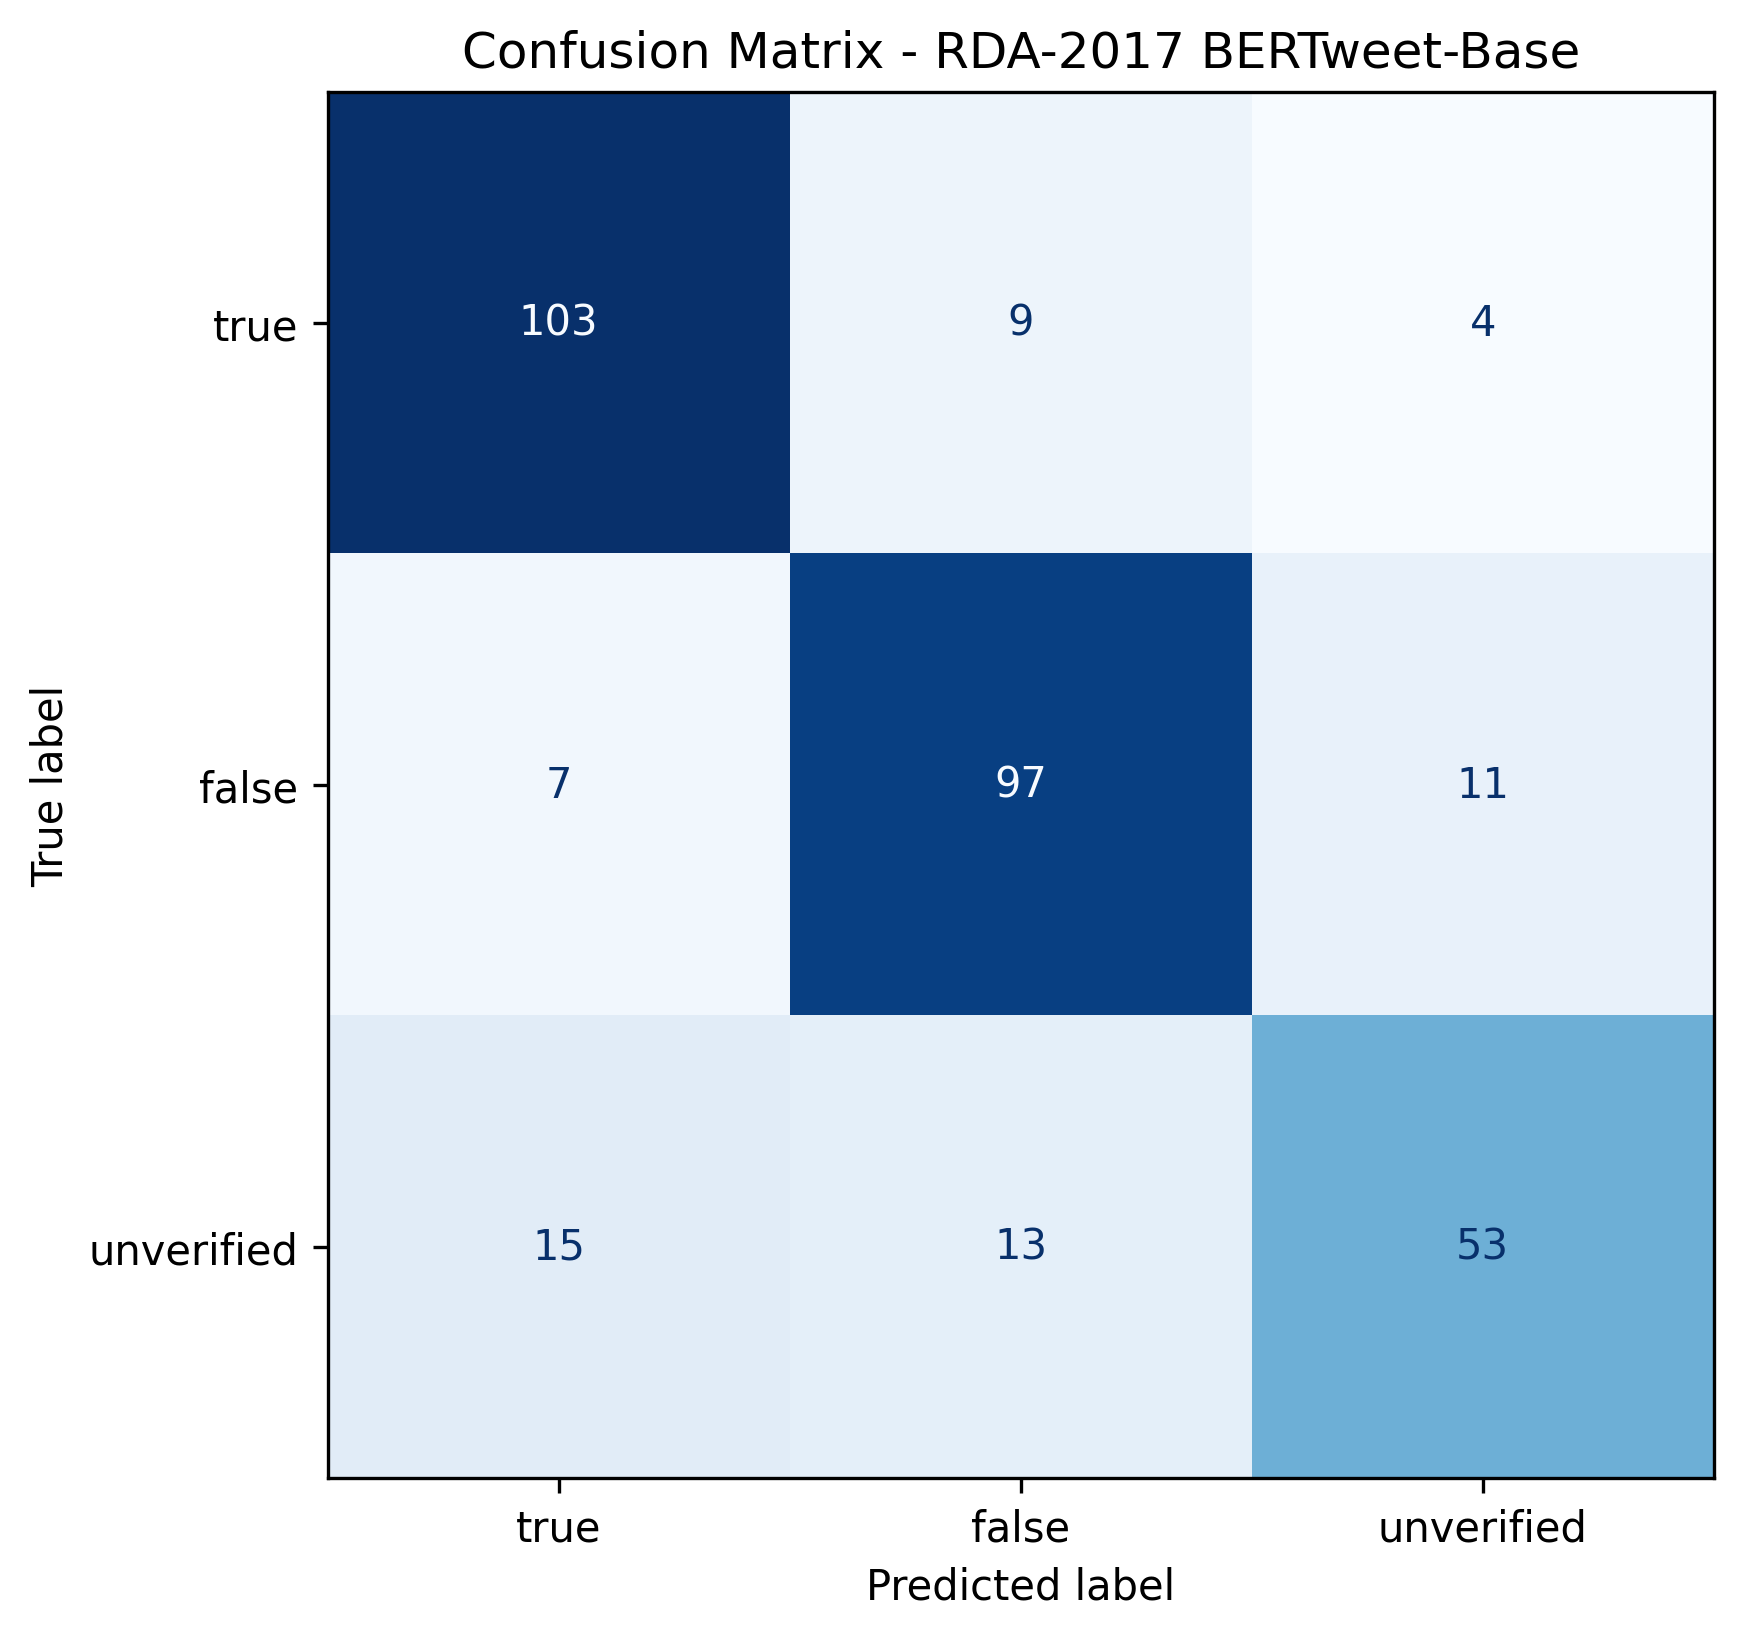
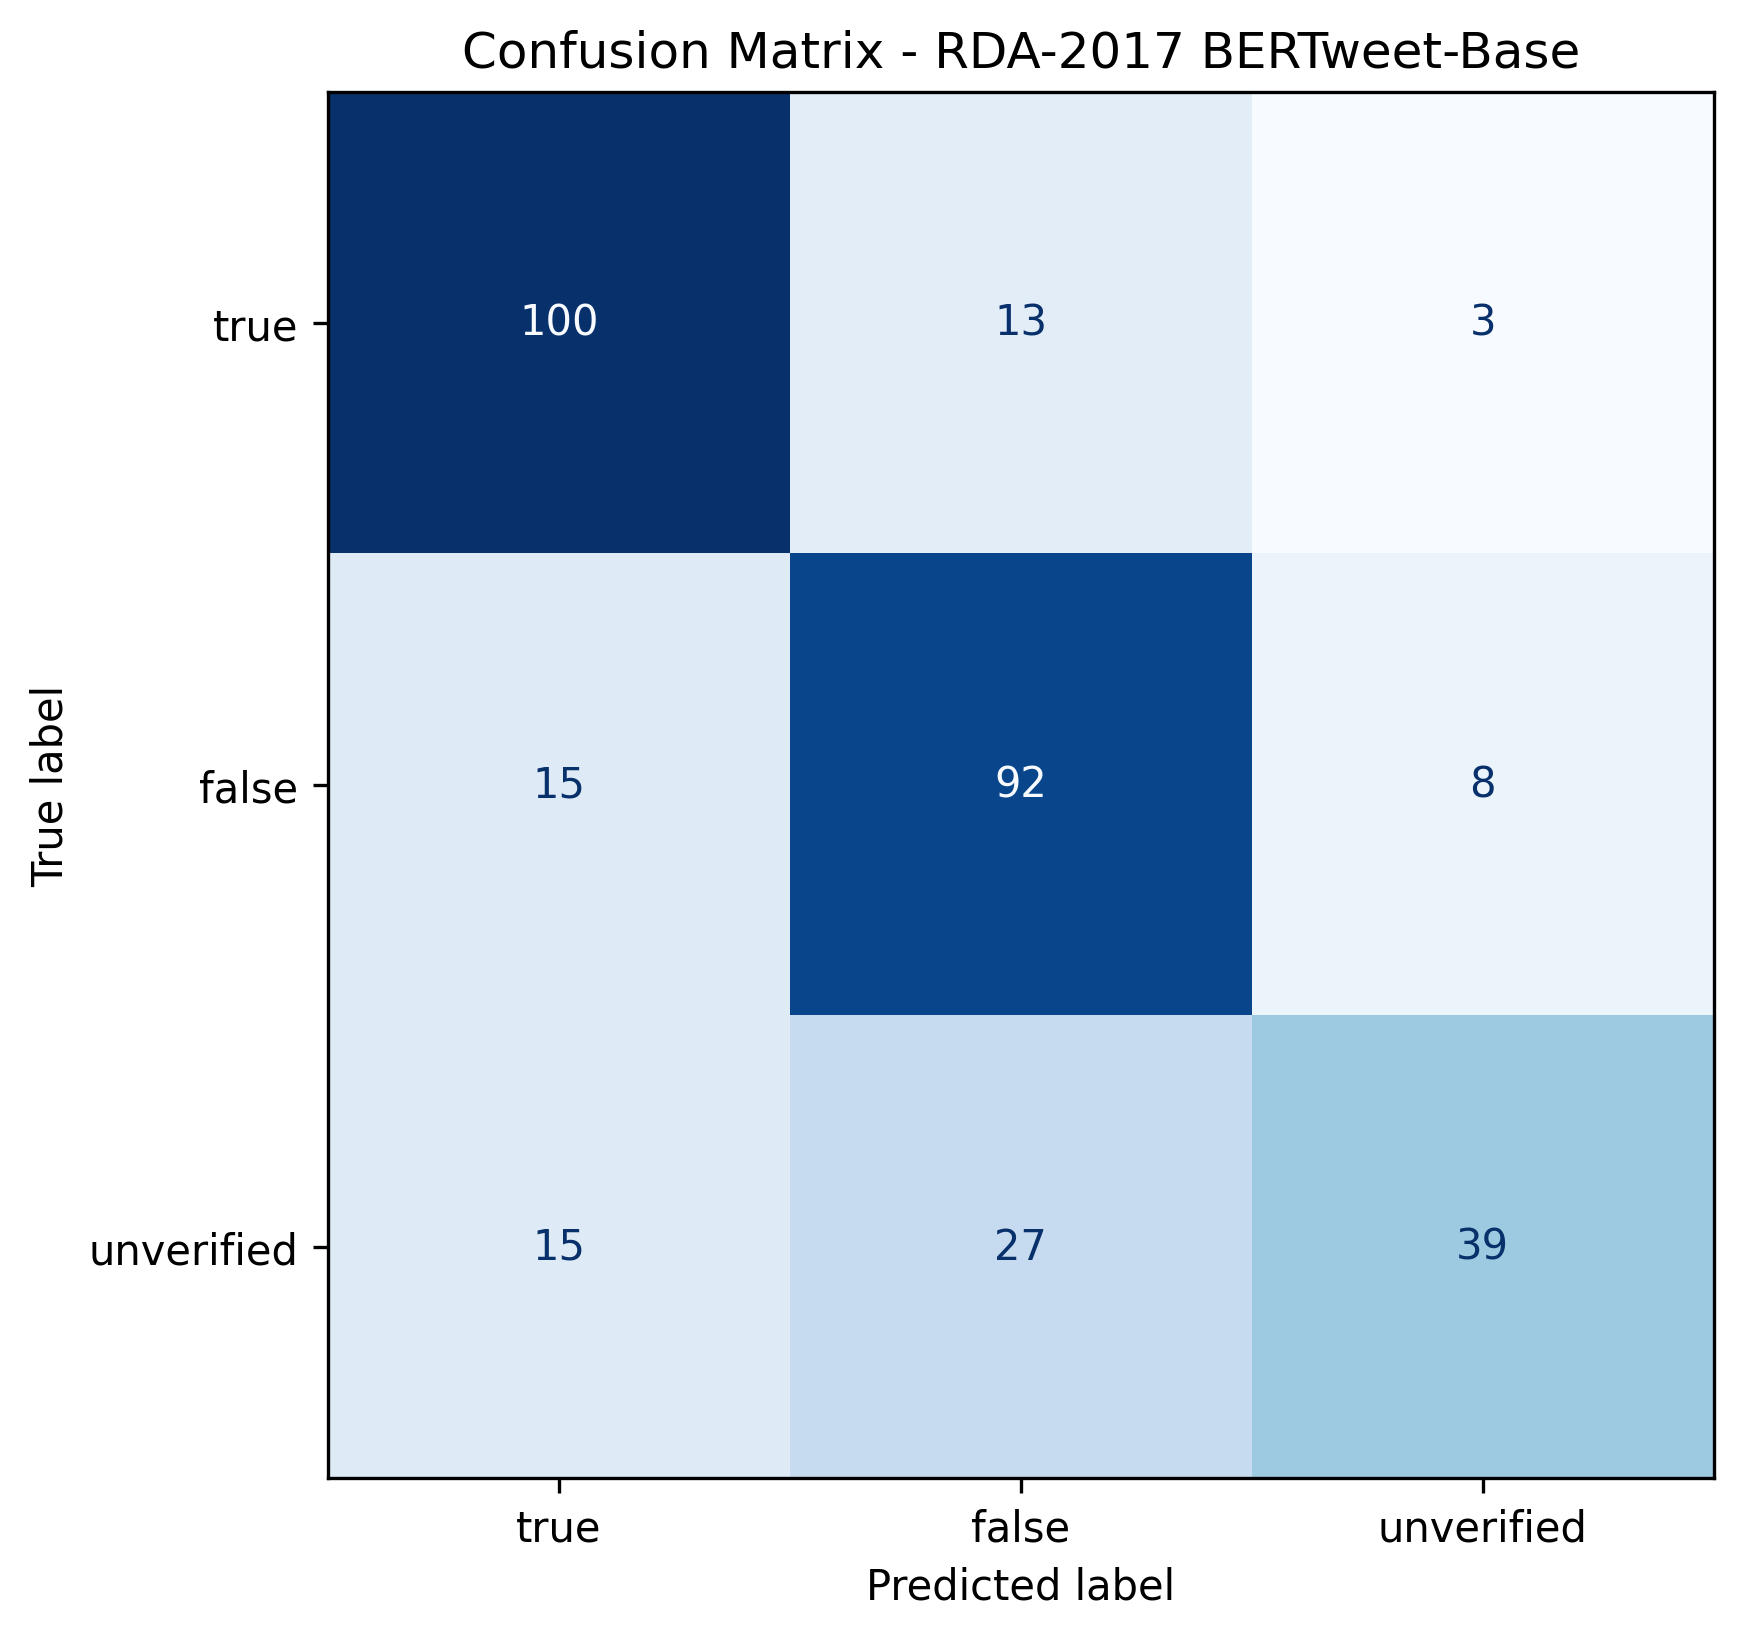
trained model on MiDe22 dataset

diff --git a/src/MiDe22-BERTweet.py b/src/MiDe22-BERTweet.py
@@ -1,0 +1,134 @@
+import pandas as pd
+import re
+import nltk
+from nltk.corpus import stopwords
+from nltk.stem import WordNetLemmatizer
+import numpy as np
+import os
+from sklearn.model_selection import train_test_split
+from sklearn.metrics import f1_score, accuracy_score, confusion_matrix, ConfusionMatrixDisplay
+import matplotlib.pyplot as plt
+import torch
+from torch.utils.data import Dataset, DataLoader
+from transformers import AutoConfig, AutoTokenizer, AutoModelForSequenceClassification, Trainer, TrainingArguments
+
+nltk.download('stopwords')
+nltk.download('punkt')
+nltk.download('wordnet')
+
+base_dir = os.path.abspath(os.path.join(os.getcwd(), ".."))
+src_dir = os.path.join(base_dir, "src")
+data_dir = os.path.join(base_dir, "data")
+mide22_dir = os.path.join(data_dir, "MiDe22", "dataset", "EN")
+folds_dir = os.path.join(mide22_dir, "folds")
+checkpoint_dir = os.path.join(src_dir, "bertweet-results")
+output_dir = os.path.join(base_dir, "models")
+
+stop_words = set(stopwords.words('english'))
+lemmatizer = WordNetLemmatizer()
+
+training_args = TrainingArguments(
+    output_dir=os.path.join(checkpoint_dir, "MiDe22"),
+    num_train_epochs=4,
+    per_device_train_batch_size=16,
+    per_device_eval_batch_size=32,
+    eval_strategy="epoch",
+    save_strategy="epoch",
+    logging_dir="./logs",
+    logging_strategy="steps",
+    logging_steps=50,
+    load_best_model_at_end=True,
+    metric_for_best_model="f1",
+    fp16=True,
+)
+
+class Mide22Dataset(Dataset):
+    def __init__(self, encodings, labels):
+        self.encodings = encodings
+        self.labels = labels
+    def __getitem__(self, idx):
+        item = {key: torch.tensor(val[idx]) for key, val in self.encodings.items()}
+        item['labels'] = torch.tensor(self.labels[idx])
+        return item
+    def __len__(self):
+        return len(self.labels)
+
+def clean_text(text):
+    text = text.lower()
+    text = re.sub(r"#\w+", "", text)
+    text = re.sub(r"http\S+|www\S+|url", "", text)
+    text = re.sub(r"@\w+", "", text)
+    text = re.sub(r"[^a-z0-9\s]", " ", text)
+    text = re.sub(r"\s+", " ", text).strip()
+
+    tokens = nltk.word_tokenize(text)
+    tokens = [t for t in tokens if t not in stop_words and len(t) > 2]
+    tokens = [lemmatizer.lemmatize(t) for t in tokens]
+
+    return " ".join(tokens)
+
+def compute_metrics(eval_pred):
+    logits, labels = eval_pred
+    preds = np.argmax(logits, axis=1)
+    return {
+        "accuracy": accuracy_score(labels, preds),
+        "f1": f1_score(labels, preds, average='macro')
+    }
+
+if __name__ == "__main__":
+    df = pd.read_csv(os.path.join(mide22_dir, "mide22_en_misinfo_tweets.tsv"), encoding='utf-8', sep="\t")
+    df['clean_text'] = df['text'].apply(clean_text)
+    label_map = {"True": 0, "False": 1, "Other": 2}
+    df['label_id'] = df['label'].map(label_map)
+
+    train_texts, val_texts, train_labels, val_labels = train_test_split(
+        df['clean_text'], df['label_id'], test_size=0.2, random_state=42, stratify=df['label_id']
+    )
+
+    config = AutoConfig.from_pretrained(os.path.join(output_dir, "bertweet-ANTiVax"), num_labels=3)
+
+    tokenizer = AutoTokenizer.from_pretrained(os.path.join(output_dir, "bertweet-ANTiVax"), use_fast=True)
+    model = AutoModelForSequenceClassification.from_pretrained(os.path.join(output_dir, "bertweet-ANTiVax"),
+                                                               config=config, ignore_mismatched_sizes=True)
+
+    train_encodings = tokenizer(list(train_texts), truncation=True, padding=True, max_length=128)
+    val_encodings = tokenizer(list(val_texts), truncation=True, padding=True, max_length=128)
+
+    train_dataset = Mide22Dataset(train_encodings, train_labels.tolist())
+    val_dataset = Mide22Dataset(val_encodings, val_labels.tolist())
+
+    trainer = Trainer(
+        model=model,
+        args=training_args,
+        train_dataset=train_dataset,
+        eval_dataset=val_dataset,
+        compute_metrics=compute_metrics,
+    )
+    checkpoints = [f.path for f in os.scandir(os.path.join(checkpoint_dir, "MiDe22")) if f.is_dir() and "checkpoint" in f.name]
+
+    if checkpoints:
+        print("Resuming from latest checkpoint...")
+        trainer.train(resume_from_checkpoint=True)
+    else:
+        print("No checkpoints found. Starting fresh training...")
+        trainer.train()
+
+    model.save_pretrained(os.path.join(output_dir, "bertweet-MiDe22"))
+    tokenizer.save_pretrained(os.path.join(output_dir, "bertweet-MiDe22"))
+
+    metrics = trainer.evaluate()
+    print("Evaluation metrics:", metrics)
+
+    predictions = trainer.predict(val_dataset)
+    y_pred = np.argmax(predictions.predictions, axis=1)
+    y_true = predictions.label_ids
+
+    cm = confusion_matrix(y_true, y_pred)
+
+    labels = ['true', 'false', 'other']
+    disp = ConfusionMatrixDisplay(confusion_matrix=cm, display_labels=labels)
+
+    fig, ax = plt.subplots(figsize=(6, 6))
+    disp.plot(ax=ax, cmap=plt.cm.Blues, colorbar=False)
+    plt.title("Confusion Matrix - MiDe22 BERTweet-Base")
+    plt.savefig("MiDe22_confusion_matrix.png", dpi=300, bbox_inches='tight')
